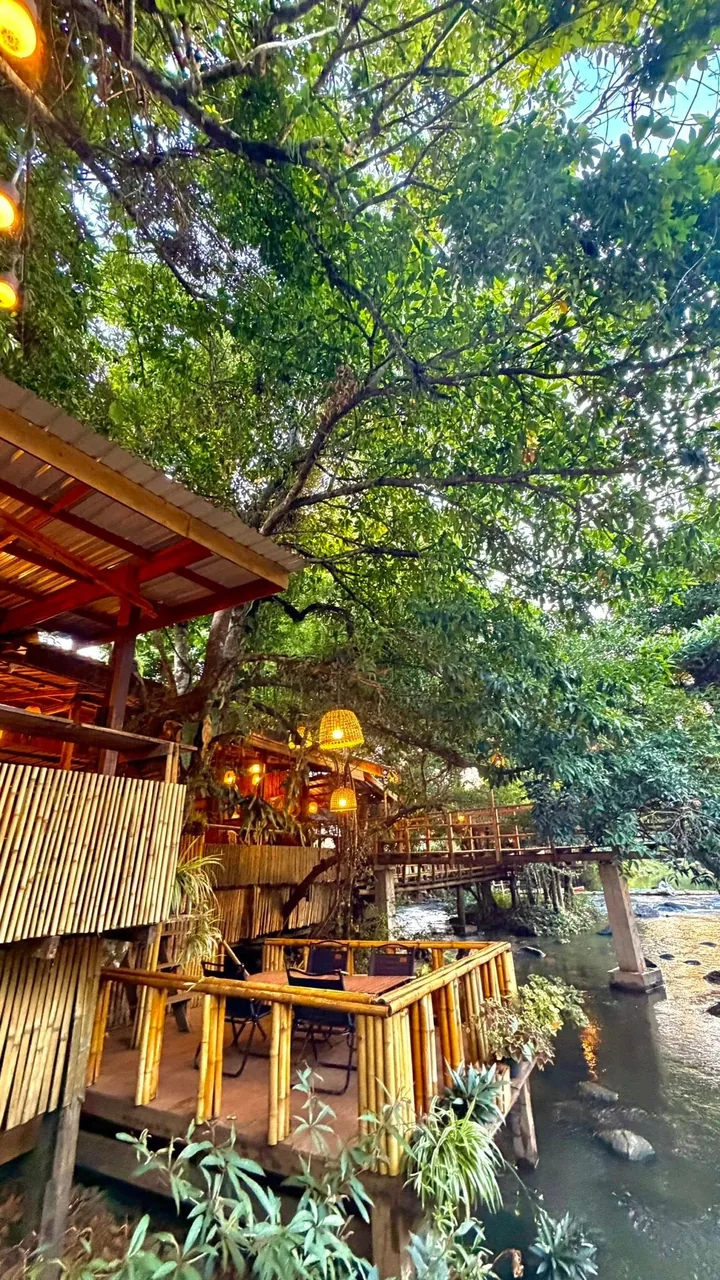
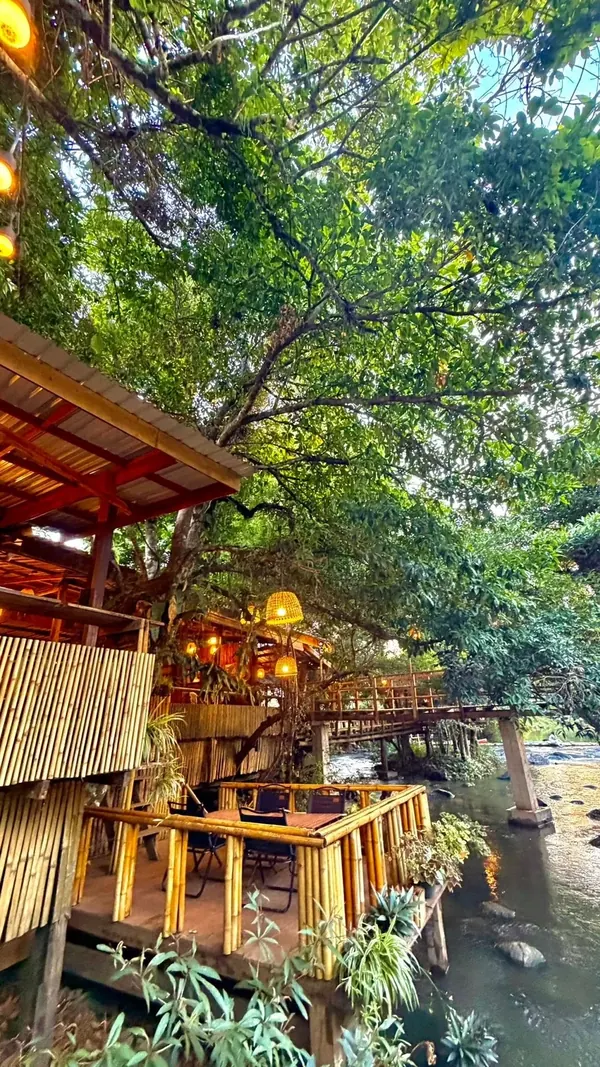
Image weight audit all pages: dining-terrace 2048px->1600 -v2 (847->502KB, oversize per Rule 4), room-page heroes get dedicated q80 -hero files (jaosua1/2, tent: 671/419/500 -> ~300KB eager loads; full-quality originals kept for lightbox), fat udomsuk poster 232->113KB; residue=0

diff --git a/index.html b/index.html
@@ -396,7 +396,7 @@ if (location.hostname.endsWith('workers.dev')) {
     <p class="lead">ห้องอาหารไม้ยกพื้นเหนือลำธาร ประดับโคมไฟหวายและไฟราวยามค่ำ มีโต๊ะยาวรองรับหมู่คณะ พร้อมระเบียงไม้ไผ่ริมลำธาร และบริการกาแฟลาวแท้จากแหล่งปลูกโบโลเวน</p>
     <div class="gal-grid">
       <img src="/images/dining-night-river-t.webp" data-full="/images/dining-night-river.webp" alt="ห้องอาหารริมลำธารยามค่ำ ไฟราวส่องสะท้อนผิวน้ำ" loading="lazy">
-      <img src="/images/dining-terrace-bamboo-t.webp" data-full="/images/dining-terrace-bamboo.webp" class="tall" alt="ระเบียงไม้ไผ่ริมลำธารของห้องอาหาร ใต้ร่มไม้ใหญ่" loading="lazy">
+      <img src="/images/dining-terrace-bamboo-t.webp" data-full="/images/dining-terrace-bamboo-v2.webp" class="tall" alt="ระเบียงไม้ไผ่ริมลำธารของห้องอาหาร ใต้ร่มไม้ใหญ่" loading="lazy">
       <img src="/images/dining-hall-lanterns-t.webp" data-full="/images/dining-hall-lanterns.webp" alt="โถงห้องอาหารโคมไฟหวาย โต๊ะไม้ยาวรองรับกลุ่มใหญ่" loading="lazy">
       <img src="/images/dining-hall-long-tables-t.webp" data-full="/images/dining-hall-long-tables.webp" alt="โถงห้องอาหารเปิดโล่ง มองเห็นต้นไม้และลำธารรอบด้าน" loading="lazy">
       <img src="/images/dining-lanterns-stream-t.webp" data-full="/images/dining-lanterns-stream.webp" alt="มุมนั่งกินข้าวริมลำธารยามค่ำ โคมหวายบนต้นไม้" loading="lazy">

diff --git a/lo/index.html b/lo/index.html
@@ -400,7 +400,7 @@ if (location.hostname.endsWith('workers.dev')) {
     <p class="lead">ຮ້ານອາຫານໄມ້ຍົກພື້ນເໜືອຫ້ວຍ ປະດັບໂຄມໄຟຫວາຍ ແລະ ໄຟປະດັບຕອນຄໍ່າ ມີໂຕະຍາວຮອງຮັບໝູ່ຄະນະ ພ້ອມລະບຽງໄມ້ໄຜ່ແຄມຫ້ວຍ ແລະ ກາເຟລາວແທ້ຈາກແຫຼ່ງປູກບໍລະເວນ</p>
     <div class="gal-grid">
       <img src="/images/dining-night-river-t.webp" data-full="/images/dining-night-river.webp" alt="ຮ້ານອາຫານແຄມຫ້ວຍຕອນຄໍ່າ ໄຟສະທ້ອນຜິວນ້ຳ" loading="lazy">
-      <img src="/images/dining-terrace-bamboo-t.webp" data-full="/images/dining-terrace-bamboo.webp" class="tall" alt="ລະບຽງໄມ້ໄຜ່ແຄມຫ້ວຍຂອງຮ້ານອາຫານ ໃຕ້ຮົ່ມໄມ້ໃຫຍ່" loading="lazy">
+      <img src="/images/dining-terrace-bamboo-t.webp" data-full="/images/dining-terrace-bamboo-v2.webp" class="tall" alt="ລະບຽງໄມ້ໄຜ່ແຄມຫ້ວຍຂອງຮ້ານອາຫານ ໃຕ້ຮົ່ມໄມ້ໃຫຍ່" loading="lazy">
       <img src="/images/dining-hall-lanterns-t.webp" data-full="/images/dining-hall-lanterns.webp" alt="ໂຖງຮ້ານອາຫານໂຄມໄຟຫວາຍ ໂຕະໄມ້ຍາວຮອງຮັບກຸ່ມໃຫຍ່" loading="lazy">
       <img src="/images/dining-hall-long-tables-t.webp" data-full="/images/dining-hall-long-tables.webp" alt="ໂຖງຮ້ານອາຫານເປີດໂລ່ງ ເຫັນຕົ້ນໄມ້ ແລະ ຫ້ວຍອ້ອມຮອບ" loading="lazy">
       <img src="/images/dining-lanterns-stream-t.webp" data-full="/images/dining-lanterns-stream.webp" alt="ມຸມນັ່ງກິນເຂົ້າແຄມຫ້ວຍຕອນຄໍ່າ ໂຄມຫວາຍເທິງຕົ້ນໄມ້" loading="lazy">

diff --git a/en/index.html b/en/index.html
@@ -400,7 +400,7 @@ if (location.hostname.endsWith('workers.dev')) {
     <p class="lead">A wooden restaurant raised over the stream, lit by rattan lanterns and string lights — long tables for groups, a bamboo terrace by the water, and true Bolaven-grown Lao coffee</p>
     <div class="gal-grid">
       <img src="/images/dining-night-river-t.webp" data-full="/images/dining-night-river.webp" alt="The riverside restaurant at night, lights reflected on the water" loading="lazy">
-      <img src="/images/dining-terrace-bamboo-t.webp" data-full="/images/dining-terrace-bamboo.webp" class="tall" alt="Bamboo terrace of the restaurant by the stream, under a large tree" loading="lazy">
+      <img src="/images/dining-terrace-bamboo-t.webp" data-full="/images/dining-terrace-bamboo-v2.webp" class="tall" alt="Bamboo terrace of the restaurant by the stream, under a large tree" loading="lazy">
       <img src="/images/dining-hall-lanterns-t.webp" data-full="/images/dining-hall-lanterns.webp" alt="Restaurant hall with rattan lanterns and long wooden tables for groups" loading="lazy">
       <img src="/images/dining-hall-long-tables-t.webp" data-full="/images/dining-hall-long-tables.webp" alt="Open-air restaurant hall with trees and the stream all around" loading="lazy">
       <img src="/images/dining-lanterns-stream-t.webp" data-full="/images/dining-lanterns-stream.webp" alt="Riverside dining corner at night with rattan lanterns in the trees" loading="lazy">

diff --git a/rooms/tent/index.html b/rooms/tent/index.html
@@ -109,7 +109,7 @@ if (location.hostname.endsWith('workers.dev')) {
 </aside>
 
 <div class="rd-hero">
-  <img class="bg" src="/images/tent-close-chairs.webp" alt="เต็นท์กลางสนาม ทุ่งหวายโฮมสเตย์ พร้อมฟลายชีทและชุดโต๊ะเก้าอี้ไม้" fetchpriority="high">
+  <img class="bg" src="/images/tent-close-chairs-hero.webp" alt="เต็นท์กลางสนาม ทุ่งหวายโฮมสเตย์ พร้อมฟลายชีทและชุดโต๊ะเก้าอี้ไม้" fetchpriority="high">
   <div class="wrap">
     <div class="rd-crumb"><a href="/#rooms">← ห้องพักทั้งหมด</a></div>
     <h1>เต็นท์กลางสนาม</h1>

diff --git a/lo/rooms/tent/index.html b/lo/rooms/tent/index.html
@@ -113,7 +113,7 @@ if (location.hostname.endsWith('workers.dev')) {
 </aside>
 
 <div class="rd-hero">
-  <img class="bg" src="/images/tent-close-chairs.webp" alt="ເຕັນກາງເດີ່ນ ທົ່ງຫວາຍໂຮມສະເຕ ພ້ອມຜ້າຄຸມ ແລະ ຊຸດໂຕະຕັ່ງໄມ້" fetchpriority="high">
+  <img class="bg" src="/images/tent-close-chairs-hero.webp" alt="ເຕັນກາງເດີ່ນ ທົ່ງຫວາຍໂຮມສະເຕ ພ້ອມຜ້າຄຸມ ແລະ ຊຸດໂຕະຕັ່ງໄມ້" fetchpriority="high">
   <div class="wrap">
     <div class="rd-crumb"><a href="/lo/#rooms">← ຫ້ອງພັກທັງໝົດ</a></div>
     <h1>ເຕັນກາງເດີ່ນ</h1>

diff --git a/lo/rooms/jaosua1/index.html b/lo/rooms/jaosua1/index.html
@@ -113,7 +113,7 @@ if (location.hostname.endsWith('workers.dev')) {
 </aside>
 
 <div class="rd-hero">
-  <img class="bg" src="/images/room-jaosua1.webp" alt="ເຮືອນເຈົ້າສົວ 1 ທົ່ງຫວາຍໂຮມສະເຕ" fetchpriority="high">
+  <img class="bg" src="/images/room-jaosua1-hero.webp" alt="ເຮືອນເຈົ້າສົວ 1 ທົ່ງຫວາຍໂຮມສະເຕ" fetchpriority="high">
   <div class="wrap">
     <div class="rd-crumb"><a href="/lo/#rooms">← ຫ້ອງພັກທັງໝົດ</a></div>
     <h1>ເຮືອນເຈົ້າສົວ 1</h1>

diff --git a/lo/rooms/jaosua2/index.html b/lo/rooms/jaosua2/index.html
@@ -113,7 +113,7 @@ if (location.hostname.endsWith('workers.dev')) {
 </aside>
 
 <div class="rd-hero">
-  <img class="bg" src="/images/room-jaosua2.webp" alt="ເຮືອນເຈົ້າສົວ 2 ທົ່ງຫວາຍໂຮມສະເຕ" fetchpriority="high">
+  <img class="bg" src="/images/room-jaosua2-hero.webp" alt="ເຮືອນເຈົ້າສົວ 2 ທົ່ງຫວາຍໂຮມສະເຕ" fetchpriority="high">
   <div class="wrap">
     <div class="rd-crumb"><a href="/lo/#rooms">← ຫ້ອງພັກທັງໝົດ</a></div>
     <h1>ເຮືອນເຈົ້າສົວ 2</h1>

diff --git a/rooms/jaosua1/index.html b/rooms/jaosua1/index.html
@@ -109,7 +109,7 @@ if (location.hostname.endsWith('workers.dev')) {
 </aside>
 
 <div class="rd-hero">
-  <img class="bg" src="/images/room-jaosua1.webp" alt="เฮือนเจ้าสัว 1 ทุ่งหวายโฮมสเตย์" fetchpriority="high">
+  <img class="bg" src="/images/room-jaosua1-hero.webp" alt="เฮือนเจ้าสัว 1 ทุ่งหวายโฮมสเตย์" fetchpriority="high">
   <div class="wrap">
     <div class="rd-crumb"><a href="/#rooms">← ห้องพักทั้งหมด</a></div>
     <h1>เฮือนเจ้าสัว 1</h1>

diff --git a/rooms/jaosua2/index.html b/rooms/jaosua2/index.html
@@ -109,7 +109,7 @@ if (location.hostname.endsWith('workers.dev')) {
 </aside>
 
 <div class="rd-hero">
-  <img class="bg" src="/images/room-jaosua2.webp" alt="เฮือนเจ้าสัว 2 ทุ่งหวายโฮมสเตย์" fetchpriority="high">
+  <img class="bg" src="/images/room-jaosua2-hero.webp" alt="เฮือนเจ้าสัว 2 ทุ่งหวายโฮมสเตย์" fetchpriority="high">
   <div class="wrap">
     <div class="rd-crumb"><a href="/#rooms">← ห้องพักทั้งหมด</a></div>
     <h1>เฮือนเจ้าสัว 2</h1>

diff --git a/en/rooms/tent/index.html b/en/rooms/tent/index.html
@@ -113,7 +113,7 @@ if (location.hostname.endsWith('workers.dev')) {
 </aside>
 
 <div class="rd-hero">
-  <img class="bg" src="/images/tent-close-chairs.webp" alt="Lawn tent at Thongwai Homestay with flysheet and wooden table set" fetchpriority="high">
+  <img class="bg" src="/images/tent-close-chairs-hero.webp" alt="Lawn tent at Thongwai Homestay with flysheet and wooden table set" fetchpriority="high">
   <div class="wrap">
     <div class="rd-crumb"><a href="/en/#rooms">← All rooms</a></div>
     <h1>Lawn Tents</h1>

diff --git a/en/rooms/jaosua1/index.html b/en/rooms/jaosua1/index.html
@@ -113,7 +113,7 @@ if (location.hostname.endsWith('workers.dev')) {
 </aside>
 
 <div class="rd-hero">
-  <img class="bg" src="/images/room-jaosua1.webp" alt="Chao Sua House 1, Thongwai Homestay" fetchpriority="high">
+  <img class="bg" src="/images/room-jaosua1-hero.webp" alt="Chao Sua House 1, Thongwai Homestay" fetchpriority="high">
   <div class="wrap">
     <div class="rd-crumb"><a href="/en/#rooms">← All rooms</a></div>
     <h1>Chao Sua House 1</h1>

diff --git a/en/rooms/jaosua2/index.html b/en/rooms/jaosua2/index.html
@@ -113,7 +113,7 @@ if (location.hostname.endsWith('workers.dev')) {
 </aside>
 
 <div class="rd-hero">
-  <img class="bg" src="/images/room-jaosua2.webp" alt="Chao Sua House 2, Thongwai Homestay" fetchpriority="high">
+  <img class="bg" src="/images/room-jaosua2-hero.webp" alt="Chao Sua House 2, Thongwai Homestay" fetchpriority="high">
   <div class="wrap">
     <div class="rd-crumb"><a href="/en/#rooms">← All rooms</a></div>
     <h1>Chao Sua House 2</h1>
